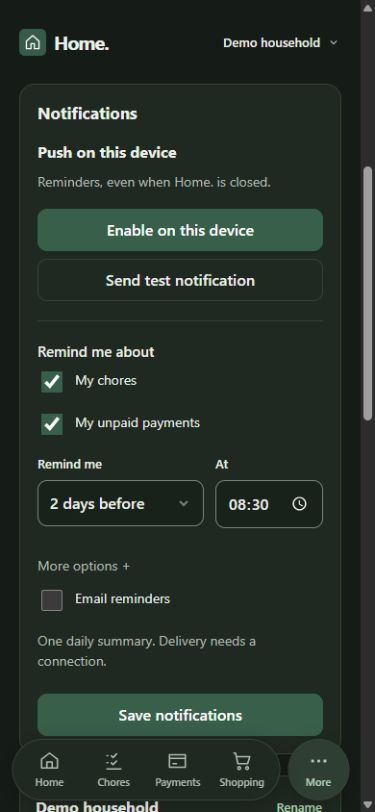
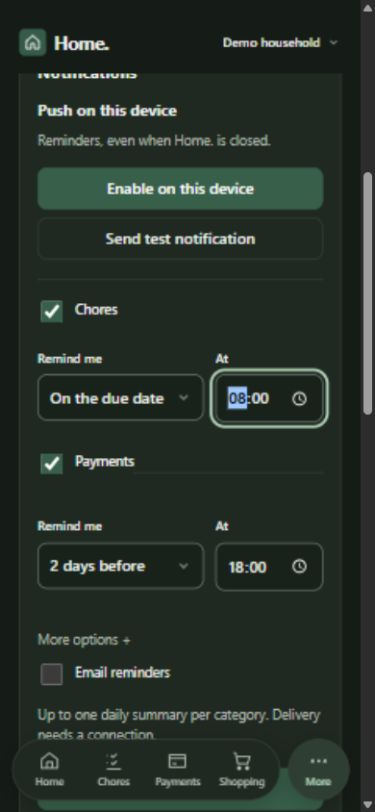
Document separate reminder schedules and faster push delivery

diff --git a/docs/screenshots/notifications.html b/docs/screenshots/notifications.html
@@ -1,1 +1,1 @@
-<!doctype html><html lang="nb"><meta charset="utf-8"><link rel="stylesheet" href="presentation.css"><title>Home. – varsler</title><main class="board themes"><div class="brand"><img src="../design/icon.svg" alt="">Home.</div><div class="copy"><h1>Påminnelser.<br>På din tid.</h1><p>Velg hva, når og hvor.<br>E-post eller push på mobilen.</p></div><div class="phones"><figure class="device"><div class="phone"><div class="viewport"><img src="mobile-notifications-light.jpg" alt="Varslingsvalg i lys visning"></div></div></figure><figure class="device"><div class="phone dark"><div class="viewport"><img src="mobile-notifications-dark.jpg" alt="Varslingsvalg i mørk visning"></div></div></figure></div></main></html>
+<!doctype html><html lang="nb"><meta charset="utf-8"><link rel="stylesheet" href="presentation.css"><title>Home. – varsler</title><main class="board themes"><div class="brand"><img src="../design/icon.svg" alt="">Home.</div><div class="copy"><h1>Oppgaver i dag.<br>Betalinger før.</h1><p>Velg frist og klokkeslett hver for seg. E-post eller push på mobilen.</p></div><div class="phones"><figure class="device"><div class="phone"><div class="viewport"><img src="mobile-notifications-light.jpg" alt="Varslingsvalg i lys visning"></div></div></figure><figure class="device"><div class="phone dark"><div class="viewport"><img src="mobile-notifications-dark.jpg" alt="Varslingsvalg i mørk visning"></div></div></figure></div></main></html>

diff --git a/docs/AI_HANDOFF.md b/docs/AI_HANDOFF.md
@@ -52,9 +52,9 @@ The user wants a useful phone app with clear hierarchy, little copy and generous
 
 ## Notification behavior and boundaries
 
-Email is opt-in per account; push is opt-in per browser installation/device. Shared reminder preferences choose chores/payments, 0–14 days before, local time, time zone and optional daily overdue reminders. Defaults retain email opt-in and use the due date at 09:00 Europe/Oslo. Due dates have no time-of-day component, so this is a daily summary, not an hourly deadline alarm.
+Email is opt-in per account; push is opt-in per browser installation/device. Chores and payments each have their own enabled state, 0–14 day lead and local time. Time zone and overdue opt-in are shared. Defaults retain email opt-in and use the due date at 09:00 Europe/Oslo. Due dates have no time-of-day component, so this is a daily summary, not an hourly deadline alarm.
 
-Scheduling checks every worker tick and catches up after the chosen time that local day. A unique event key suppresses repeated scheduling on restarts and DST clock changes. Future monthly templates can be included without creating an expense early. Completed chores, voided expenses, settled/reserved balances and households the user has left are excluded. Newly added records after a digest may only appear in the app until another eligible reminder. Saving preferences cancels pending reminder payloads; an already dispatched message cannot be recalled.
+Scheduling checks every worker tick and catches up after the chosen time that local day. A category-specific event key suppresses repeated scheduling on restarts and DST clock changes. Future monthly templates can be included without creating an expense early. Completed chores, voided expenses, settled/reserved balances and households the user has left are excluded. Newly added records after a digest may only appear in the app until another eligible reminder. Saving preferences cancels pending reminder payloads; an already dispatched message cannot be recalled.
 
 Push subscriptions are account-scoped, capped at ten devices and accepted only for supported HTTPS browser push services. Never allow arbitrary push URLs or redirects: that would create a server-side request forgery path. Endpoints and authentication secrets are private. VAPID signing material is generated server-side and retained in SQLite; only its public verification key is returned to an authenticated browser. Do not rotate this material casually because existing subscriptions depend on it.
 
@@ -103,3 +103,11 @@ Real iPhone Home Screen installation and APNs delivery need device verification.
 ## 2026-11-26: fixed-scale navigation follow-up
 
 The owner requested no horizontal page/menu scrolling and no in-app touch zoom. Root and nested scroll surfaces allow vertical panning only; dialogs and form grids must reflow rather than hide overflowing controls. Keep date fields constrained, controls at 16 px minimum text, long names/amounts wrapping, and dialog scroll position reset when changing menus. A visualViewport listener sizes dialogs around the software keyboard. The header has 12 px extra top clearance to avoid the iOS top blur. OS accessibility overrides cannot be disabled reliably. Notification testing is deliberately visible before enabling push and uses the actual server outbox after a permission gesture. These explicit preferences supersede the earlier Safari checklist’s zoom-preservation guidance.
+
+## 2026-11-26: independent schedules and faster push
+
+Chores and payments now have separate lead-day and local-clock-time settings. The additive migration copies each user’s old shared schedule into both categories exactly once, so it does not silently change existing choices. Legacy profile fields remain for older open clients; explicit new fields take precedence. Scheduling and notification tags are category-specific, preventing an earlier chore summary from suppressing a later payment summary. Existing combined-digest event keys suppress duplicate delivery on the upgrade day.
+
+The worker now runs independent scheduling, email and push loops. Push checks once per second with three bounded concurrent sends; a stalled email request cannot block it. Mail checks idle queues every second and retains 600 ms pacing when active. Scheduling still checks every 15 seconds. Health requires recent progress from all three loops. Push requests use high urgency to request immediate delivery, and VAPID authorization is reused for one hour as Apple recommends. Neither setting bypasses Focus, connectivity or OS delivery policies. A synthetic timing check reached the mocked provider 948 ms after queueing while email remained deliberately pending; this is not an APNs timing measurement.
+
+Tests cover independent lead/time settings, migration and repeated startup, old-client compatibility, upgrade-day deduplication, distinct push tags and push progress while mail is pending. There are 32 isolated checks. See Apple’s [Web Push delivery guidance](https://developer.apple.com/documentation/usernotifications/sending-web-push-notifications-in-web-apps-and-browsers). Review exported screenshot dimensions and full-frame content before publishing; do not accidentally save a transient or partial capture.

diff --git a/docs/OPERATIONS.md b/docs/OPERATIONS.md
@@ -14,7 +14,7 @@ Run `docker compose build app`, then `docker compose up -d --wait app mail-worke
 
 The web container has no Resend credential. Only the worker mounts the secret, reads pending messages from SQLite and calls Resend over HTTPS. Sending uses a durable outbox, fixed per-message idempotency keys, bounded exponential retry and a 23-hour delivery window. Failed and successful message bodies are erased. Metadata is retained for 30 days. Verification links expire after 24 hours, reset links after one hour and invitations after seven days. Links are single use; link tokens travel in URL fragments, not server request URLs. The application never processes inbound email.
 
-Reminders are opt-in under Settings: email per account and push per browser installation. Users choose chores/payments, 0–14 days before, local time, time zone and optional daily overdue reminders. The worker queues at most one summary per eligible user/channel/local day, after the chosen time. Future monthly templates are included without creating a charge early. Newly added records after that day's digest may only appear in the app. Push is best effort; use the device test button and verify on a real iPhone. See SAFARI.md. Monthly bills retain their original day across shorter months. Recurring chores create the next dated occurrence on completion, preserving missed work rather than silently skipping it.
+Reminders are opt-in under Settings: email per account and push per browser installation. Users choose a separate lead and local time for chores and payments, plus a shared time zone and optional daily overdue reminders. The worker queues at most one summary per eligible user/category/channel/local day, after the chosen time. Future monthly templates are included without creating a charge early. Newly added records after that day's digest may only appear in the app. Push is best effort; use the device test button and verify on a real iPhone. See SAFARI.md. Monthly bills retain their original day across shorter months. Recurring chores create the next dated occurrence on completion, preserving missed work rather than silently skipping it.
 
 ## Backups and restore
 
@@ -43,3 +43,9 @@ An explicitly approved live Gmail smoke test on 2026-11-26 confirmed Inbox recei
 ## Push operations
 
 VAPID signing material and private device subscriptions live in SQLite and its backups; no external API key is required for browser push. Do not export these tables or rotate keys casually. Never return the private JWK in an API response. Allow worker HTTPS egress to the supported Apple, Google, Mozilla and Microsoft browser push services. Endpoint allowlisting and redirect rejection are required. Push status/attempt/error metadata is in `push_outbox`; do not print endpoints or payloads in logs. Completed payloads are erased and metadata expires after 30 days; 404/410 removes the subscription. After restoring a database, clear `push_outbox` and `push_subscriptions` alongside sessions/tokens/unsent mail so restored device endpoints cannot resume notifications unexpectedly. Retain `push_config` to preserve the server identity.
+
+## Separate reminders and delivery latency
+
+The separate-schedule migration copies the old shared lead/time into both chore and payment settings once, retaining existing consent and values. New category choices are independent; each category may send one summary per local day. Old combined keys prevent duplicates on upgrade day. The same worker process now runs independent loops: push polls every second with at most three concurrent provider requests, email polls idle queues every second with 600 ms active pacing, and scheduling checks every 15 seconds. Health depends on all loops making progress. No proxy, credential or external service configuration changes are required.
+
+Push uses high urgency and reuses VAPID authorization for an hour. This requests prompt provider delivery without guaranteeing a visible alert time. Focus, OS notification settings, connectivity and provider throttling can still delay it. The local synthetic pickup measurement was 948 ms with email held pending; real iPhone/APNs delivery remains a device check.

diff --git a/docs/ARCHITECTURE.md b/docs/ARCHITECTURE.md
@@ -28,7 +28,7 @@ Monthly bill templates retain an anchor day, including return to the 31st after 
 
 ## Email reliability
 
-Email intent is queued in the same database transaction as the originating event. Resend calls have fixed per-message idempotency keys, timeouts and bounded exponential retries. The worker retries transient failures and generic status codes without logging provider bodies or credentials. Pending payloads expire within 23 hours; sent/failed bodies are cleared. Metadata is removed after 30 days. Users opt in to a daily summary with configurable 0–14 day lead time, local time, time zone, categories and overdue reminders. Provider acceptance is not proof of inbox delivery. No inbound email is processed.
+Email intent is queued in the same database transaction as the originating event. Resend calls have fixed per-message idempotency keys, timeouts and bounded exponential retries. The worker retries transient failures and generic status codes without logging provider bodies or credentials. Pending payloads expire within 23 hours; sent/failed bodies are cleared. Metadata is removed after 30 days. Users opt in to up to one daily summary per category, with independent 0–14 day leads and clock times for chores and payments, a shared time zone and overdue preferences. Provider acceptance is not proof of inbox delivery. No inbound email is processed.
 
 ## Web Push
 

diff --git a/docs/DECISIONS.md b/docs/DECISIONS.md
@@ -28,3 +28,7 @@ The earlier framework/backend proposals were replaced with Node's standard libra
 ## 2026-11-26: reminders and AI maintenance
 
 The user requested configurable email timing, push notifications, Safari Home Screen polish and an up-to-date GitHub handoff for future AI contributors. The existing worker and standard Node cryptography implement encrypted Web Push without a new runtime dependency. Additive SQLite migrations preserve existing accounts and email consent. Notifications remain date-based daily summaries, with generic lock-screen text and explicit permission per device. AI_HANDOFF.md records design lessons, code ownership, limits and branch/PR integration rules; it deliberately excludes private deployment details.
+
+## 2026-11-26: category schedules and push latency
+
+At the user’s request, chore and payment reminders have independent lead days and clock times. Existing shared choices migrate into both categories without being reset. Separate event keys/tags retain independent delivery. Push and email processing now run independently in the existing worker, using one-second queue checks and bounded push concurrency; push requests high urgency and reuses VAPID authorization for an hour. No new dependency, service or credential was introduced. Provider and device delays remain outside the app’s control.

diff --git a/README.md b/README.md
@@ -20,7 +20,7 @@ A mobile-first app for shared chores, expenses and shopping. Create an account, 
 | Repayments | Record partial payments and let the recipient confirm receipt |
 | Shopping | Keep one shared list with quantities and checked items |
 | Accounts | Verified email registration and password reset through Resend |
-| Notifications | Email and per-device push, chores/payments, 0–14 days before, local time, time zone and optional overdue reminders |
+| Notifications | Email and per-device push; separate chore/payment lead times and clock times, time zone and optional overdue reminders |
 
 The app has light, dark and system appearance, a floating mobile navigation menu and a desktop layout. Phone pages and menus use vertical scrolling with fixed-scale touch navigation. Household data is private to its members. Home records repayments; it does not move money or connect to a bank.
 

diff --git a/docs/screenshots/README.md b/docs/screenshots/README.md
@@ -9,3 +9,5 @@ The gallery emphasizes mobile. Light/dark appearance, the floating navigation, g
 When refreshing images, use an isolated database without the mail worker, review each screenshot for private data, check narrow-screen reflow and preserve the source images alongside the compositions. Never capture production credentials, email verification links or personal household records.
 
 The notification gallery adds real light/dark settings captures from the same isolated demo database. It shows saved lead time and local time choices, with push disabled until explicit device consent. It is interface evidence, not proof of physical iPhone/APNs delivery.
+
+The latest notification captures show separate schedules: same-day chores at 08:00 and payments two days before at 18:00. They use the isolated demo account, with email and push delivery disabled.
